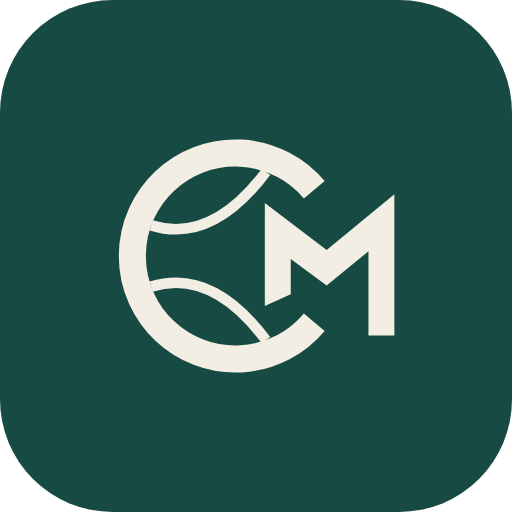
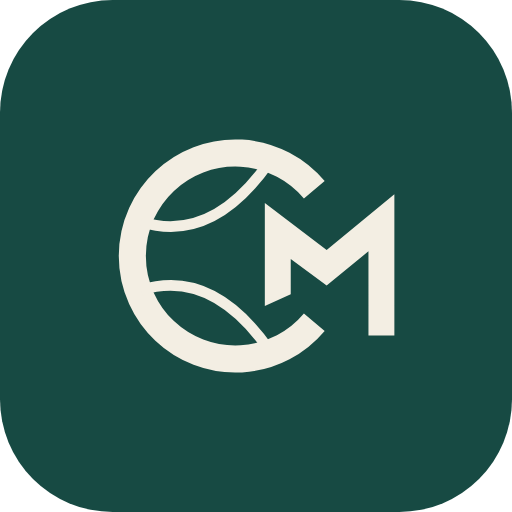
앱 아이콘: 공 실밥을 C와 이어지게 수정 (1012-7)
Claude-Session: https://claude.ai/code/session_01CSmGgJEpVoMyHKE7HHUnDU

Changed region(s): [[0.3125, 0.5312, 0.5312, 0.6875], [0.3125, 0.3125, 0.5312, 0.4688]]

diff --git a/app.js b/app.js
@@ -19,7 +19,7 @@ function pop(msg){$("#popmsg").textContent=msg;$("#pop").style.display="flex"}
 const base=()=>$("#pop").style.display="none";$("#popok").onclick=base;
 const ask=(m,ok="확인",no="취소")=>new Promise(r=>{$("#popmsg").textContent=m;$("#popok").textContent=ok;$("#popno").textContent=no;$("#popno").style.display="block";$("#pop").style.display="flex";const d=v=>{base();$("#popok").textContent="확인";$("#popno").style.display="none";$("#popok").onclick=base;r(v)};$("#popok").onclick=()=>d(true);$("#popno").onclick=()=>d(false)});
 const askText=(m,v="")=>new Promise(r=>{const pi=$("#popin");$("#popmsg").textContent=m;pi.style.display="block";pi.value=v;$("#popok").textContent="확인";$("#popno").textContent="취소";$("#popno").style.display="block";$("#pop").style.display="flex";setTimeout(()=>pi.focus(),60);const d=x=>{base();pi.style.display="none";$("#popno").style.display="none";$("#popok").onclick=base;r(x)};$("#popok").onclick=()=>d(pi.value);$("#popno").onclick=()=>d(null)});
-const APPV="v0.1",BUILD="1012-6",FBT={ux:"불편해요",bug:"오류가 있어요",idea:"이런 기능이 있으면",etc:"기타"},FBS={new:"접수",seen:"확인함",done:"반영함"};
+const APPV="v0.1",BUILD="1012-7",FBT={ux:"불편해요",bug:"오류가 있어요",idea:"이런 기능이 있으면",etc:"기타"},FBS={new:"접수",seen:"확인함",done:"반영함"};
 let toastT=null;function toast(m,lb,fn){const t=$("#toast");t.innerHTML="";const sp=document.createElement("span");sp.textContent=m;t.appendChild(sp);if(lb){const b=document.createElement("button");b.textContent=lb;b.onclick=()=>{t.style.display="none";fn&&fn()};t.appendChild(b)}t.style.display="flex";clearTimeout(toastT);toastT=setTimeout(()=>t.style.display="none",lb?6000:2600)}
 const isDev=()=>!!(CFG.devEmail&&S.user&&S.user.email===CFG.devEmail);
 const NPP={psa:"psb",sa:"sb",qa:"qb"},NPS=["psb","sb","qb"];let npT=null;

diff --git a/sw.js b/sw.js
@@ -1,4 +1,4 @@
-const V = 'cm-v7';
+const V = 'cm-v8';
 const SHELL = ['./', 'index.html', 'app.css', 'app.js', 'core.js', 'ft.js', 'ft-core.js', 'ft-data.js', 'privacy.html', 'firebase-config.js', 'manifest.webmanifest', 'icon-192.png'];
 self.addEventListener('install', e => { e.waitUntil(caches.open(V).then(c => c.addAll(SHELL))); self.skipWaiting(); });
 self.addEventListener('activate', e => { e.waitUntil(caches.keys().then(k => Promise.all(k.filter(x => x !== V).map(x => caches.delete(x)))).then(() => self.clients.claim())); });

diff --git a/HANDOFF.md b/HANDOFF.md
@@ -1,7 +1,7 @@
 # Court Manager 인수인계 문서
 
 > Claude가 GitHub 저장소에 직접 연결돼 있어요. 새 대화에서 "court_manager 저장소에서 …"라고 요청하면 최신 파일을 저장소에서 바로 읽어요.
-> 기준 시점: 2026-10-11 · **BUILD `1012-6`** · 버전 표기 `v0.1`
+> 기준 시점: 2026-10-11 · **BUILD `1012-7`** · 버전 표기 `v0.1`
 
 ---
 
